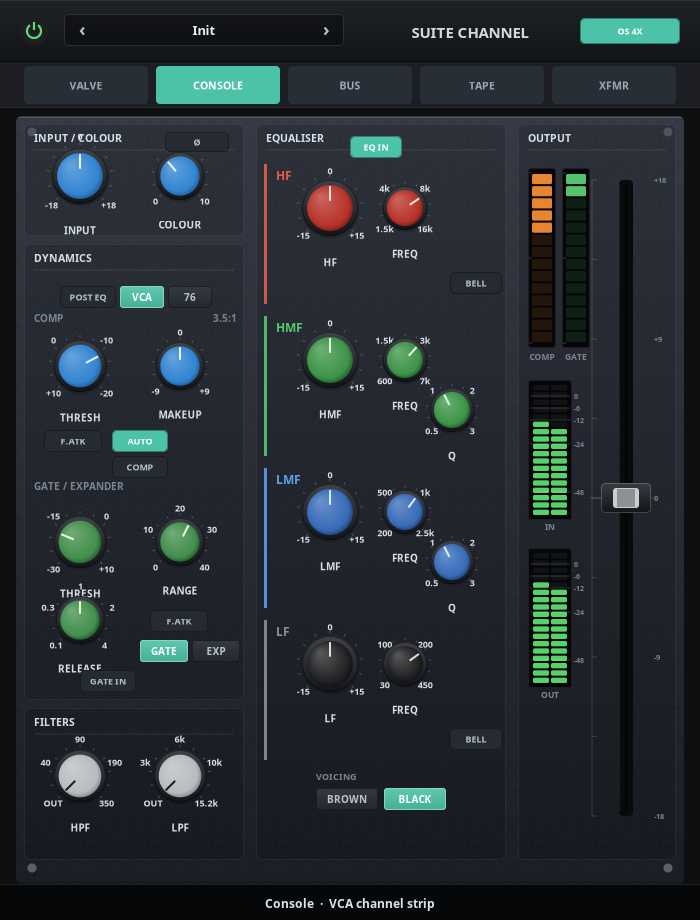
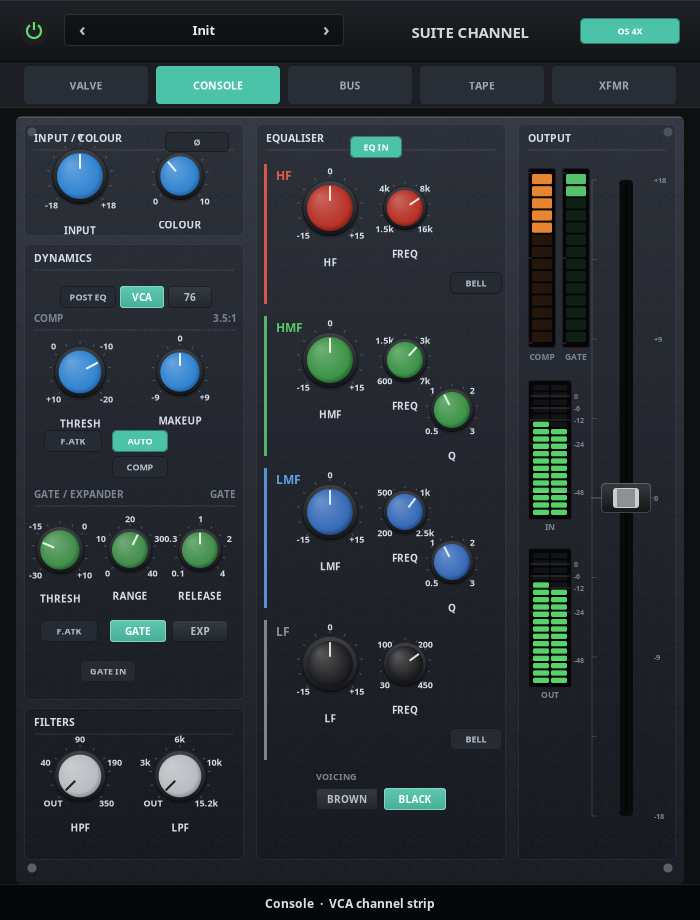
0.1.3: clean gate subheader and control row

diff --git a/src/ui/panel.cpp b/src/ui/panel.cpp
@@ -375,10 +375,10 @@ void Panel::layout(const Shared& shared, const PanelState& state) {
   button(P_COMP_TYPE, 168, 286, 44, 22, 1.0, "76");
   widgets_.back().onSilver = silverComp;
 
-  knob(P_COMP_THRESHOLD, 80, 366, 26, "THRESH",
+  knob(P_COMP_THRESHOLD, 80, 372, 26, "THRESH",
        sc(kScaleCompThresh), true);
   widgets_.back().onSilver = silverComp;
-  knob(P_COMP_MAKEUP, 180, 366, 24, "MAKEUP", sc(kScaleMakeup), true);
+  knob(P_COMP_MAKEUP, 180, 372, 24, "MAKEUP", sc(kScaleMakeup), true);
   widgets_.back().onSilver = silverComp;
   pill(P_COMP_FAST, 44, 430, 58, 22, "F.ATK");
   widgets_.back().onSilver = silverComp;
@@ -388,14 +388,14 @@ void Panel::layout(const Shared& shared, const PanelState& state) {
   widgets_.back().onSilver = silverComp;
 
   // Gate.
-  knob(P_GATE_THRESHOLD, 80, 542, 26, "THRESH",
+  knob(P_GATE_THRESHOLD, 60, 550, 24, "THRESH",
        sc(kScaleGateThresh), true);
-  knob(P_GATE_RANGE, 180, 542, 24, "RANGE", sc(kScaleRange), true);
-  knob(P_GATE_RELEASE, 80, 620, 24, "RELEASE", sc(kScaleRelease), true);
-  pill(P_GATE_FAST, 150, 610, 58, 22, "F.ATK");
-  button(P_GATE_MODE, 140, 640, 48, 22, 1.0, "GATE");
-  button(P_GATE_MODE, 192, 640, 48, 22, 0.0, "EXP");
-  pill(P_GATE_IN, 80, 670, 56, 22, "GATE IN");
+  knob(P_GATE_RANGE, 130, 550, 22, "RANGE", sc(kScaleRange), true);
+  knob(P_GATE_RELEASE, 200, 550, 22, "RELEASE", sc(kScaleRelease), true);
+  pill(P_GATE_FAST, 40, 620, 58, 22, "F.ATK");
+  button(P_GATE_MODE, 110, 620, 56, 22, 1.0, "GATE");
+  button(P_GATE_MODE, 172, 620, 56, 22, 0.0, "EXP");
+  pill(P_GATE_IN, 80, 660, 56, 22, "GATE IN");
 
   // Filters.
   knob(P_HPF, 80, 776, 26, "HPF", sc(kScaleHPF), true);
@@ -648,6 +648,8 @@ void Panel::drawBody(cairo_t* cr, const Shared& shared,
   const Skin skin = skinFor(currentColour(shared));
   const int compType =
       std::clamp(static_cast<int>(shared.get(P_COMP_TYPE) + 0.5), 0, 1);
+  const int gateMode =
+      std::clamp(static_cast<int>(shared.get(P_GATE_MODE) + 0.5), 0, 1);
   const bool blackEq =
       std::clamp(static_cast<int>(shared.get(P_EQ_TYPE) + 0.5), 0, 1) == 1;
 
@@ -747,15 +749,29 @@ void Panel::drawBody(cairo_t* cr, const Shared& shared,
        skin.legendDim.b);
 
   // Dynamics sub-headers. The compressor labels sit on silver when the
-  // 76Blue panel is active.
+  // 76Blue panel is active; both subheaders use the same title + rule.
   const Rgb compLegend =
       compType == 1 ? Rgb{0.12, 0.13, 0.14} : skin.legendDim;
-  text(cr, "COMP", 34, 322, 10.0, 0, compLegend.r, compLegend.g,
-       compLegend.b);
-  text(cr, compType == 0 ? "3.5:1" : "4:1", 236, 322, 10.0, 2,
-       compLegend.r, compLegend.g, compLegend.b);
-  text(cr, "GATE / EXPANDER", 34, 490, 10.0, 0, skin.legendDim.r,
-       skin.legendDim.g, skin.legendDim.b);
+  auto subHeader = [&](double y, const char* title, const char* right,
+                       bool silver) {
+    const Rgb ink = silver ? compLegend : skin.legendDim;
+    text(cr, title, 34, y, 10.0, 0, ink.r, ink.g, ink.b);
+    if (right && *right) {
+      text(cr, right, 236, y, 10.0, 2, ink.r, ink.g, ink.b);
+    }
+    if (silver) {
+      cairo_set_source_rgba(cr, 0.10, 0.11, 0.12, 0.35);
+    } else {
+      cairo_set_source_rgba(cr, 1, 1, 1, 0.10);
+    }
+    cairo_set_line_width(cr, 1.0);
+    cairo_move_to(cr, 34, y + 8);
+    cairo_line_to(cr, 236, y + 8);
+    cairo_stroke(cr);
+  };
+  subHeader(322, "COMP", compType == 0 ? "3.5:1" : "4:1", compType == 1);
+  subHeader(498, "GATE / EXPANDER", gateMode == 1 ? "GATE" : "EXPANDER",
+            false);
 
   // EQ band accents and labels.
   const char* bandNames[4] = {"HF", "HMF", "LMF", "LF"};

diff --git a/src/version.hpp b/src/version.hpp
@@ -6,7 +6,7 @@ namespace suite {
 
 constexpr int kVersionMajor = 0;
 constexpr int kVersionMinor = 1;
-constexpr int kVersionMicro = 2;
-constexpr const char* kVersion = "0.1.2";
+constexpr int kVersionMicro = 3;
+constexpr const char* kVersion = "0.1.3";
 
 } // namespace suite

diff --git a/README.md b/README.md
@@ -1,6 +1,6 @@
 # Suite Channel
 
-**Version 0.1.2** · GPL-3.0-or-later · CLAP + LV2 · Linux
+**Version 0.1.3** · GPL-3.0-or-later · CLAP + LV2 · Linux
 
 Suite Channel is a vertical SSL-style channel strip in the Comp Suite visual
 language. It combines:
@@ -142,8 +142,9 @@ session. Treat the URI as permanent.
 
 ## Current status
 
-0.1.2 corrects the input meter to measure after the input trim; 0.1.1 added the
-stacked stereo input level meter. CLAP and LV2
+0.1.3 cleans up the gate subheader and control row. 0.1.2 corrected the input
+meter to measure after the input trim; 0.1.1 added the stacked stereo input
+level meter. CLAP and LV2
 load, the editor renders, the DSP runs, the factory presets are generated, and
 the state tests cover VCA/76, Brown/Black, presets, expander/gate, power
 bypass and all oversampling modes. The remaining gates are the explicit EQ

diff --git a/CHANGELOG.md b/CHANGELOG.md
@@ -1,5 +1,14 @@
 # Changelog
 
+## 0.1.3 — 2026-11-16
+
+- Gate subheader now matches the compressor subheader: title, underline rule
+  and mode label (GATE / EXPANDER).
+- Gate header moved down clear of the compressor block, including the silver
+  76Blue panel.
+- Gate controls rearranged into a single threshold/range/release row, removing
+  the label collision at the bottom of the dynamics section.
+
 ## 0.1.2 — 2026-11-16
 
 - Corrected the input meter tap: it now measures **after the input trim** and
